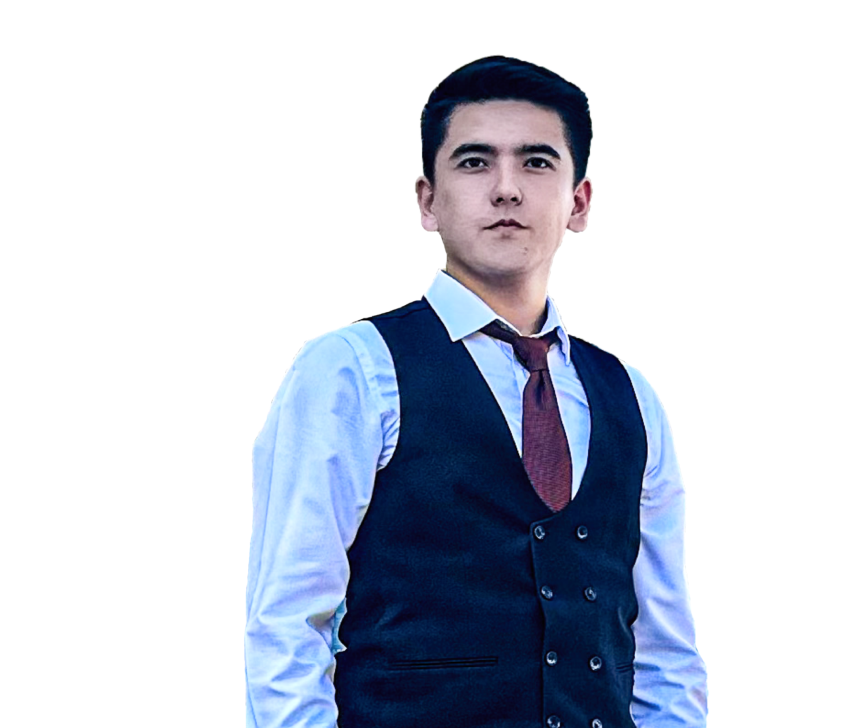
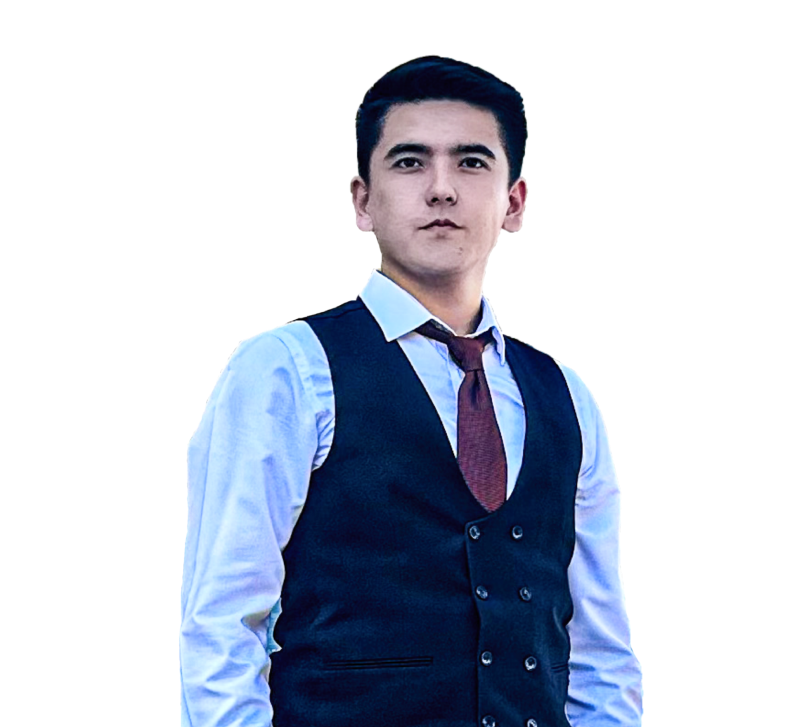
main page finished responsive

diff --git a/style.css b/style.css
@@ -6,6 +6,9 @@
   padding: 0;
   box-sizing: border-box;
 }
+body {
+  overflow-x: hidden;
+}
 html {
   scroll-behavior: smooth;
   font-family: "Poppins", sans-serif;
@@ -177,6 +180,7 @@ main {
   border-radius: 0.75rem;
   border: 2px solid #7019ff;
   background: #fff;
+  z-index: 3;
   padding: 1.06rem 1.69rem 1.06rem 1rem;
 }
 .lessonBonus_img img {
@@ -201,7 +205,7 @@ main {
   bottom: -0.4rem;
 }
 .circleImg {
-  right: 4rem;
+  right: 3rem;
   z-index: 1;
 }
 .userImg {
@@ -296,4 +300,151 @@ main {
   font-weight: 500;
   line-height: 125%;
   margin-bottom: 1.5rem;
+}
+
+@media only screen and (max-width: 1280px) {
+  html {
+    font-size: 15px;
+  }
+}
+
+@media only screen and (max-width: 480px) {
+  html {
+    font-size: 12px;
+  }
+  main {
+    flex-direction: column;
+    height: auto;
+  }
+  .dateAnd_userName {
+    flex-direction: column;
+  }
+  .userName {
+    display: flex;
+    justify-content: center;
+    align-items: center;
+    flex-direction: column;
+  }
+  .name {
+    font-size: 1.125rem;
+    font-style: normal;
+    font-weight: 600;
+    line-height: normal;
+  }
+  .freeLesson {
+    font-size: 0.875rem;
+    font-style: normal;
+    font-weight: 400;
+    line-height: normal;
+  }
+  .lessonDate {
+    margin-right: 0;
+  }
+  .mainInfos {
+    width: 100%;
+    padding-left: 0;
+    padding-top: 3.13rem;
+  }
+  .userName {
+    margin-top: 0.87rem;
+  }
+  .mainTitle {
+    display: flex;
+    justify-content: center;
+    padding: 0 0.87rem;
+  }
+  .mainTitle h1 {
+    font-size: 1.5rem;
+    text-align: center;
+  }
+  .twoDayPlans {
+    width: 100%;
+    display: flex;
+    flex-direction: column;
+    align-items: center;
+    padding: 0 1.6rem;
+  }
+  .twoDayPlans_title {
+    margin-bottom: 0.75rem;
+  }
+  .lessonBonus {
+    position: relative;
+    margin-right: 0;
+  }
+  .registerAnd_price {
+    justify-content: space-between;
+    padding: 0 1.6rem;
+    margin-bottom: 1.75rem;
+  }
+  .registerBtn {
+    margin-right: 0;
+  }
+  .mainImgs {
+    width: 100%;
+  }
+  .userImg,
+  .circleImg {
+    position: relative;
+    width: 100%;
+  }
+  .circleImg {
+    position: absolute;
+    right: 50%;
+    transform: translateX(50%);
+  }
+  .userImg img {
+    height: auto;
+    width: 100%;
+  }
+  .circleImg img {
+    width: 100%;
+    height: auto;
+  }
+  .container {
+    flex-direction: column;
+  }
+  .contactInfos {
+    flex-direction: column;
+    width: 100%;
+  }
+  .contactLinks {
+    width: 100%;
+  }
+  .lessonBonus {
+    width: auto;
+    margin: 0 1.6rem;
+  }
+  .contactInfos_img {
+    display: flex;
+    justify-content: center;
+  }
+  .contactInfos_img img {
+    margin-right: 0;
+  }
+  .contactInfos_textTitle h1 {
+    text-align: center;
+  }
+  .contactInfos_text {
+    display: flex;
+    justify-content: center;
+    align-items: center;
+    flex-direction: column;
+    width: 100%;
+    padding: 1.5rem 0;
+    margin-bottom: 1.5rem;
+    border-bottom: 1px solid rgba(0, 0, 0, 0.1);
+  }
+  .container {
+    padding: 1.5rem 2.8rem;
+    padding-bottom: 0;
+  }
+  .contactLinks p {
+    text-align: center;
+  }
+  .contactLinks_p1 {
+    margin-bottom: 1.5rem;
+  }
+  .hr {
+    margin: 1.5rem 2.8rem;
+  }
 }
